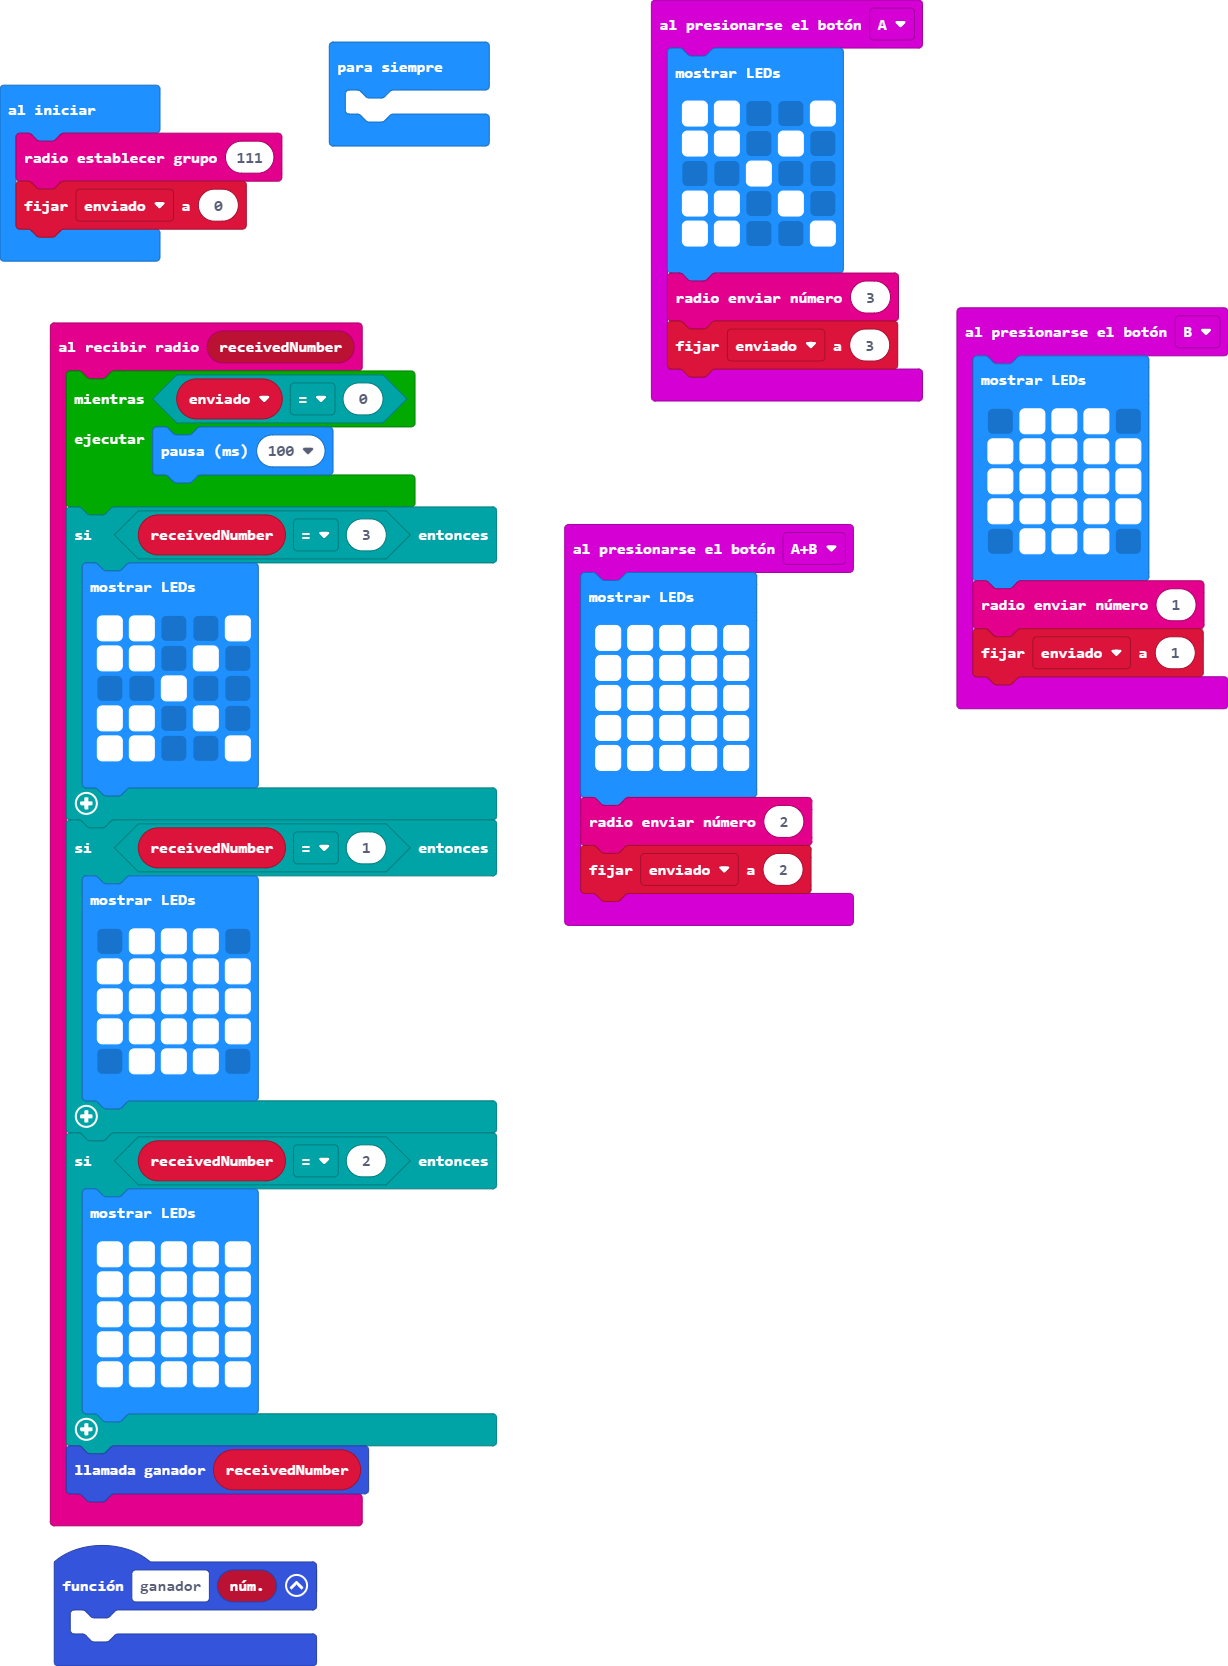
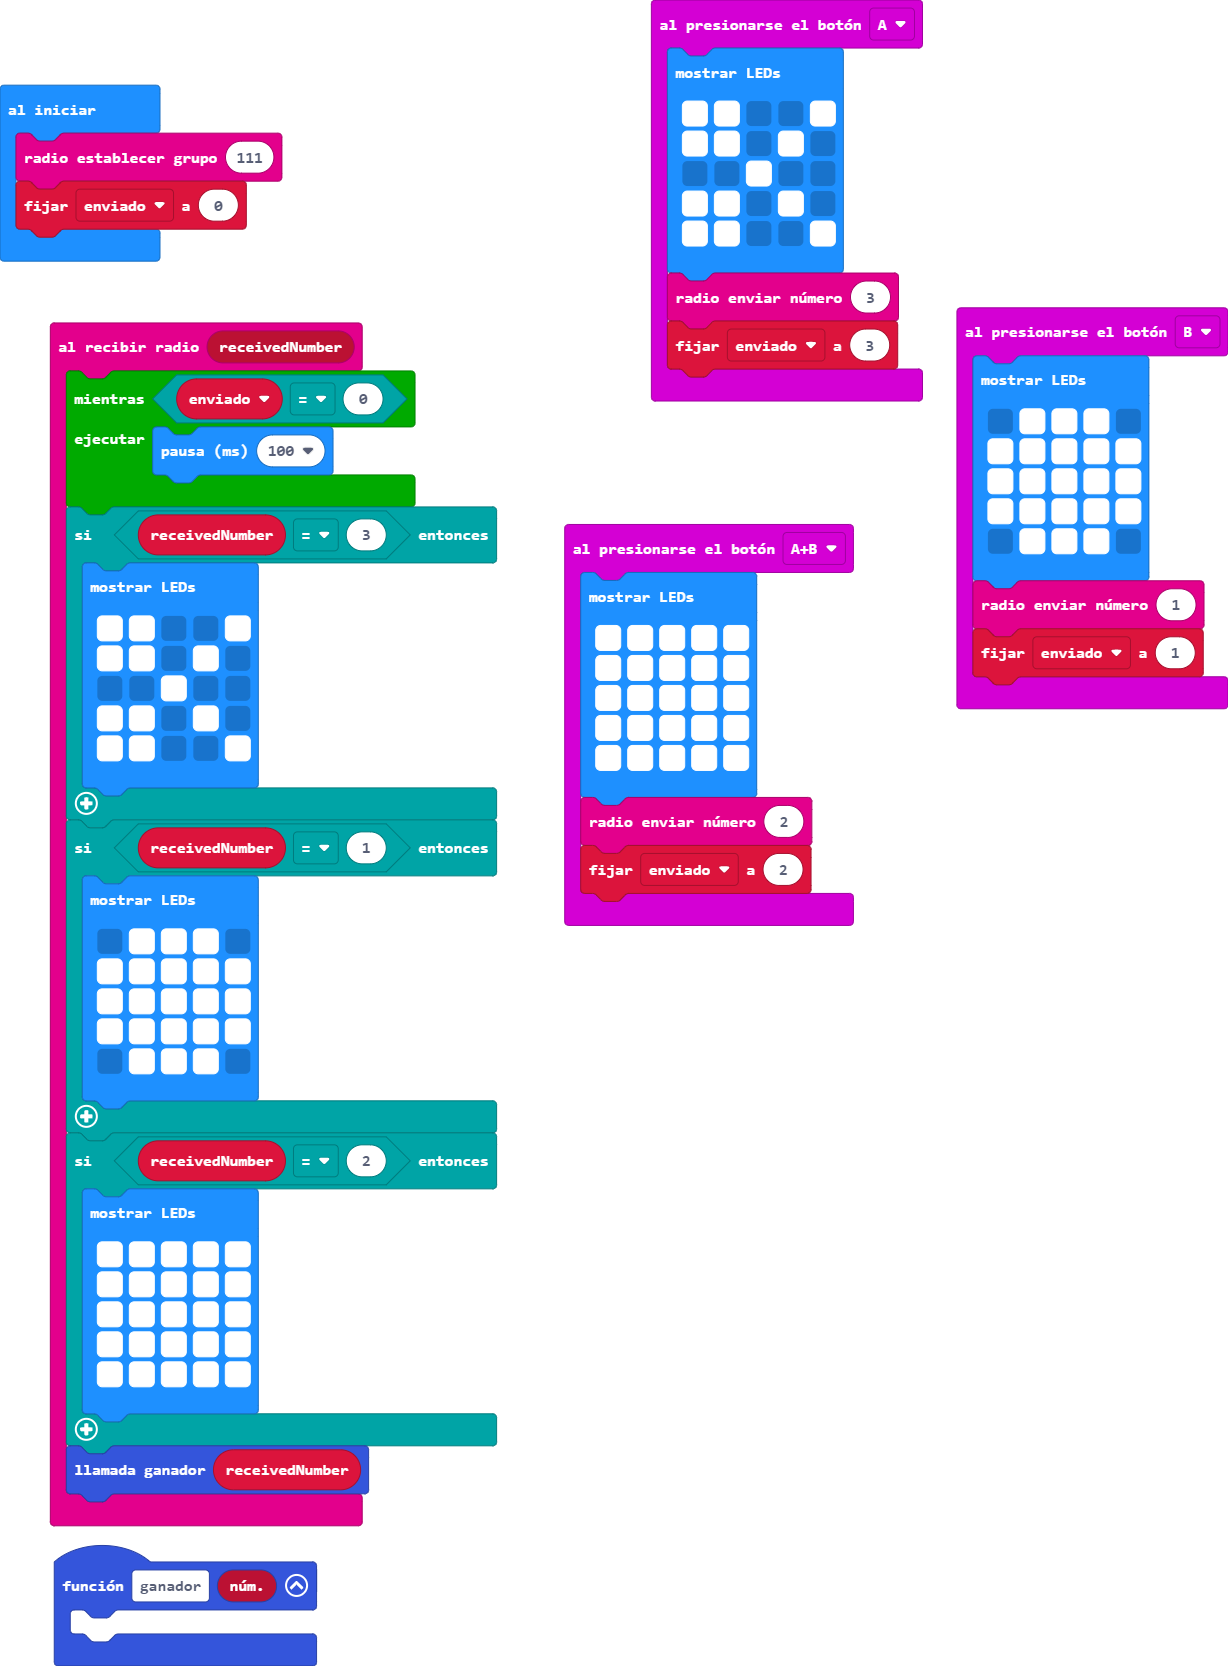
Actualizar main.blocks, main.ts

Changed region(s): [[0.2476, 0.0, 0.4023, 0.0936]]

diff --git a/main.ts b/main.ts
@@ -70,6 +70,3 @@ input.onButtonPressed(Button.B, function () {
 let enviado = 0
 radio.setGroup(111)
 enviado = 0
-basic.forever(function () {
-	
-})
